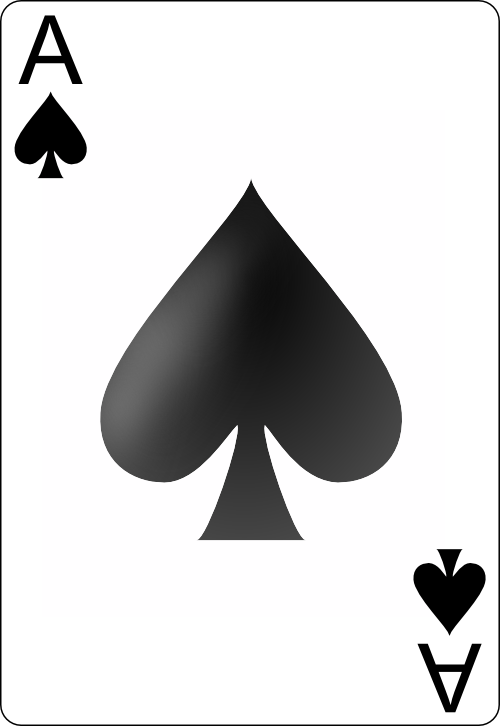
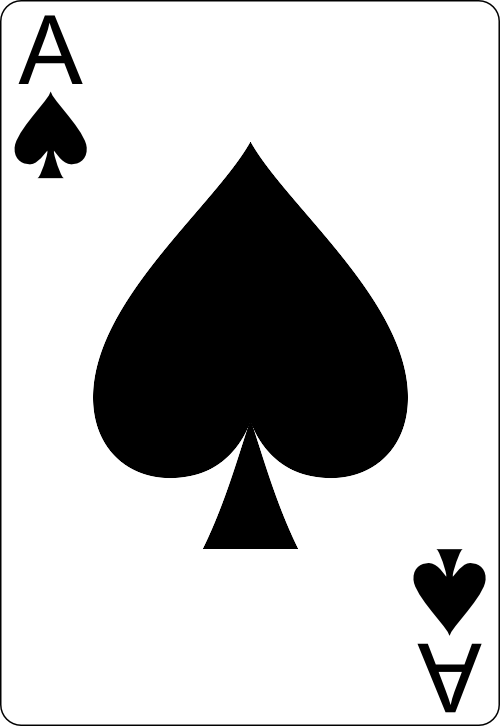
Add solid alternate ace artwork

Changed region(s): [[0.18, 0.1818, 0.84, 0.7576]]

diff --git a/src/CardFace.svelte b/src/CardFace.svelte
@@ -37,7 +37,7 @@
 
   function cardImagePath(card: Card) {
     const alternateArtworkSuffix =
-      ["J", "Q", "K"].includes(card.rank) || (card.rank === "A" && card.suit === "S") ? "2" : "";
+      ["A", "J", "Q", "K"].includes(card.rank) ? "2" : "";
 
     return `/cards/PNG-cards-1.3/${rankFileName(card.rank)}_of_${suitFileNames[card.suit]}${alternateArtworkSuffix}.png`;
   }
